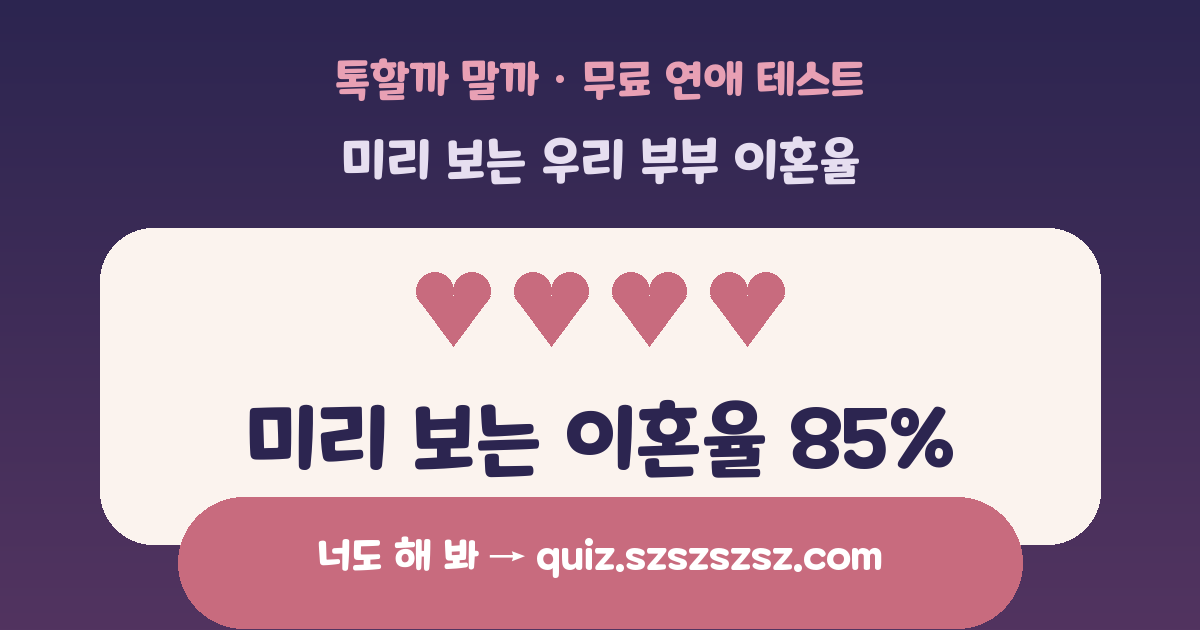
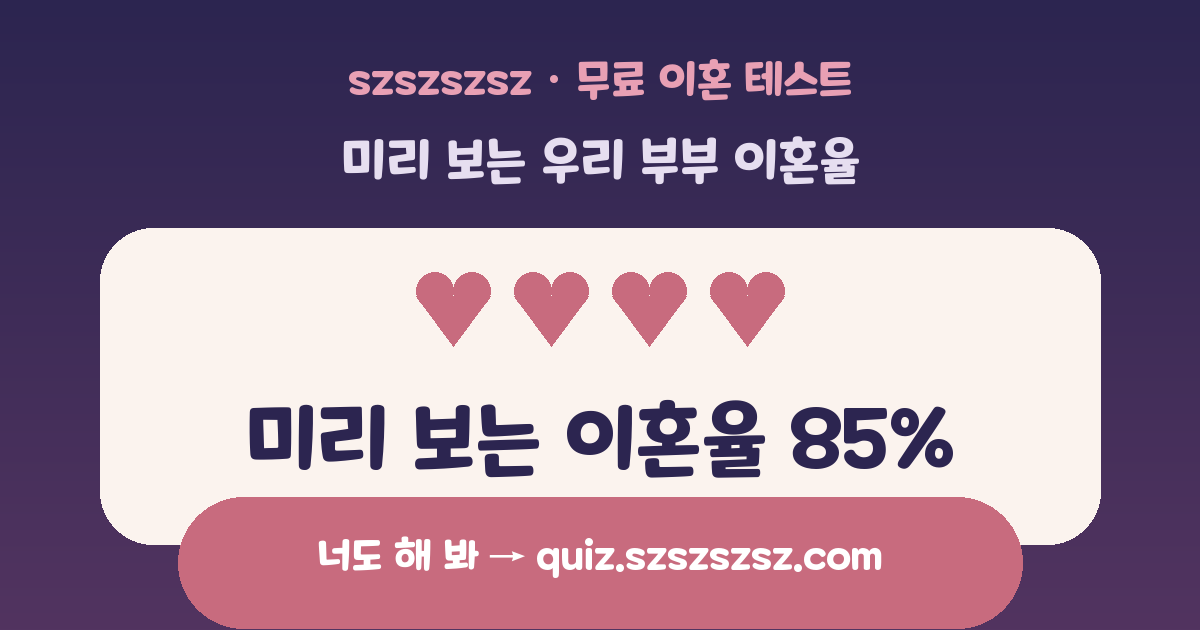
Divorce test cards: szszszsz brand line

Changed region(s): [[0.2775, 0.0905, 0.74, 0.181]]

diff --git a/cards.py b/cards.py
@@ -84,7 +84,7 @@ def card(w, h, test_title, name, line, hearts):
         d.text(((w - tw) / 2, y), text, font=font, fill=fill)
 
     y = int((150 if big else 50) * s)
-    center("톡할까 말까 · 무료 연애 테스트", f_brand, y, (232, 160, 180))
+    center("szszszsz · 무료 이혼 테스트" if "이혼" in test_title else "톡할까 말까 · 무료 연애 테스트", f_brand, y, (232, 160, 180))
     y += int((110 if big else 70) * s)
     for ln in wrap(d, test_title, f_test, inner):
         center(ln, f_test, y, (230, 222, 240))
